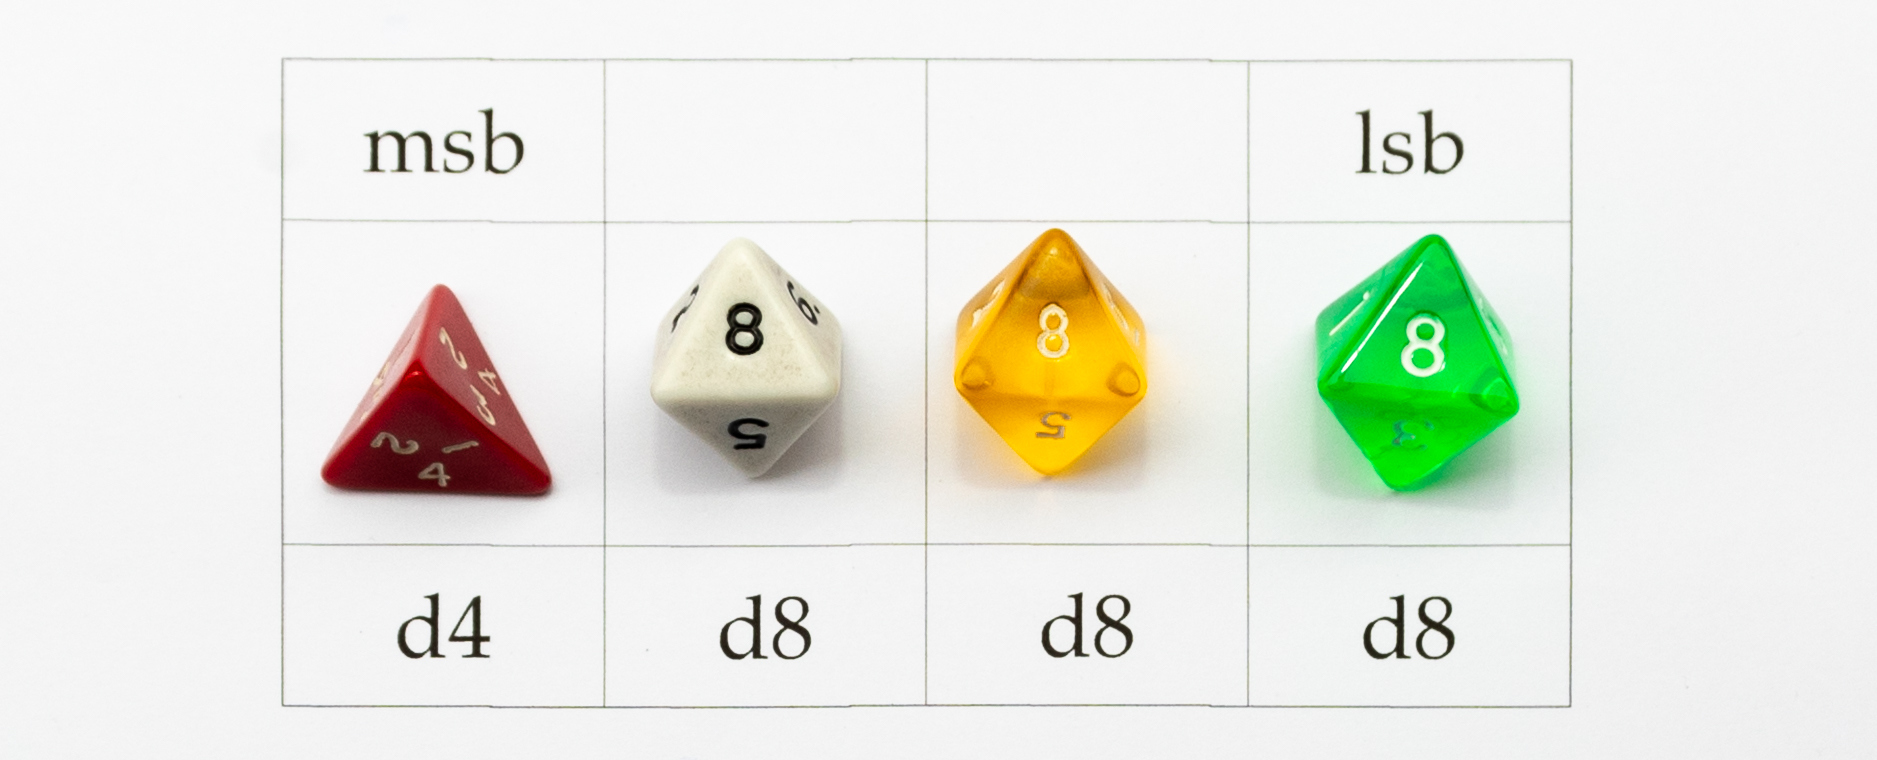
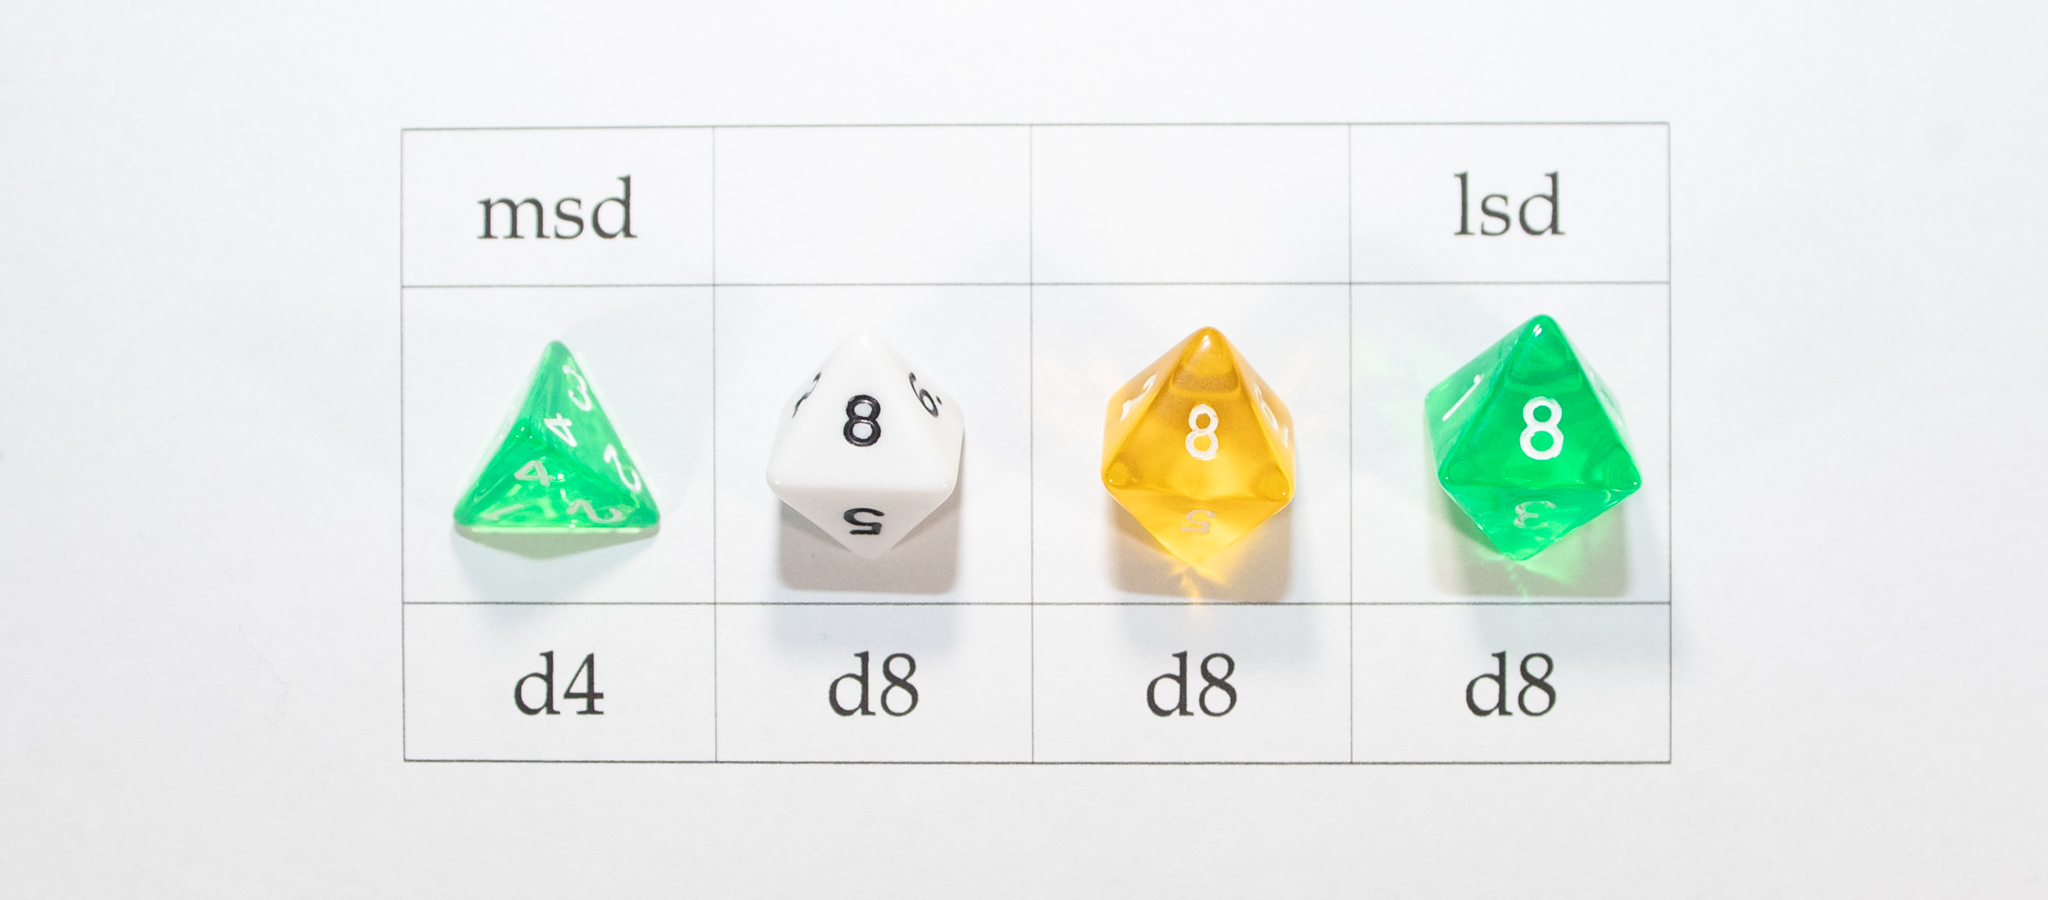
d4d8 update

diff --git a/d4d8_SeedPhrase.md b/d4d8_SeedPhrase.md
@@ -10,17 +10,28 @@ Prima di procedere, dovete procurarvi un d4 e tre d8.<br> Vi consiglio di recupe
 Per questa guida utilizziamo di d4 ed i d8 che sono dadi derivanti da Solidi Geometrici. Vi consiglio di effettuare i test di bilanciamento spiegati in [:link: questo documento](test_bilanciamento.md).<br>
 Se riuscirete a procurarvi questi 4 dadi, vi basterà effettuare un lancio di questo set per ogni parola.<br>
 Oltre ai dadi vi servirà un taccuino in cui appuntarvi i risultati e poi un computer per calcolare il checksum.
+### Lettura del d4
+![444](assets/444.jpg)
+Questi tre dadi, indicano il valore 4, ma, come potete vedere, il dado giallo (poco leggibile in foto) ed il dado rosso hanno il quattro nella base, mentre quello verde ha il 4 nel vertice.<br>
+Che io sappia, esistono solo queste due tipologie di d4, ma non escludo che possiate trovarne di differenti.
 
-**Perché 3 dadi di colore differente?**<br>
+### Perché 3 dadi di colore differente?
+
+**piccola premessa**<br>
+in una stringa binaria, il numero più a sinistra viene chiamato **msb** (most significative bit o bit più significativo) e quello più a destra **lsb** (less significative bit o bit meno significativo). In questo caso, però non stiamo parlando di bit ma di caratteri (digit) così definiremo **msd** e **lsd** le nostre cifre agli  estremi.
+
 Con i nostri lanci dovremo generare un numero ottale che andrà da 0000 fino a 3777 (equivalente ottale di 2047).<br>
-Prendiamo per esempio un lancio **2546**.<br>
-Questo numero è composto da 4 caratteri: abbiamo il 2 che è il **msb** (most significative byte o byte più significativo), poi il 5, il 4 e finiamo con il 6 che è l'**lsb** (less significative byte o byte meno significativo).<br>
+Prendiamo per esempio un lancio **4335**.
+
+![4335_2](assets/4335.jpg)
+
+Questo numero è composto da 4 caratteri: abbiamo il 4 che è il **msd**, poi il 3, ancora il 3 e finiamo con il 5 che è l'**lsd**.<br>
 
 ![488](assets/4888.jpg)
 
-Il primo carattere verrà generato con il dado da 4, mentre gli altri tre, con i dadi da 8. Per massimizzare l'entropia è molto utile definire a priori quale dado da 8 fornirà il valore lsb e quali dadi gli altri due valori.<br>
+Il primo carattere verrà generato con il dado da 4, mentre gli altri tre, con i dadi da 8. Per massimizzare l'entropia è molto utile definire a priori quale dado da 8 fornirà il valore lsd e quali dadi gli altri due valori.<br>
 I colori differenti servono a identificare univocamente i 3 dadi da 8 e posizionare i valori ottenuti nella apposita posizione della stringa che fornirà il valore.<br>
-Nel mio caso, il dado verde sarà l'**lsb**, poi metterò alla sua sinistra il dado giallo e per finire il dado bianco.<br>
+Nel mio caso, il dado verde sarà l'**lsd**, poi metterò alla sua sinistra il dado giallo e per finire il dado bianco.<br>
 Rispettando questo codice colore, evitiamo che una decisione umana possa ridurre l'entropia.
 
 ## Esecuzione dei lanci aumentando l'entropia
@@ -39,11 +50,17 @@ Decidete come effettuare i lanci ed eseguite l'operazione fino ad avere:
 * 23 lanci validi[^1] per creare una SeedPhrase da 24 parole
 E' però necessario eseguire una semplicissima operazione matematica annotandosi i risultati.
 Potete decidere se farlo subito, oppure se farlo dopo per tutti i risultati.<br>
-In pratica, bisogna sottrarre uno ad ogni faccia pertanto se un lancio fosse com questo:
+In pratica, bisogna sottrarre uno ad ogni faccia pertanto, tornando all'esempio di prima:
 
-![4335_2](assets/4335_2.jpg)
+![4335_2](assets/4335.jpg)
 
-Il valore 4335 dovrà diventare 3224.
+Il valore 4335 dovrà esse trascritto in bella come 3224.<bs>
+Segue un esempio di come potrebbe essere fatta la tabella di lanci.
+Per la 12a o la 24a parola, attendere il capitolo successivo.
+
+| Esempio Lanci 12 parole | Esempio Lanci 24 parole |
+|---------------------------|---------------------------|
+|![12_word](assets/Lanci_12_word.jpg)|![12_word](assets/Lanci_24_word.jpg)|
 
 ## L'ultima parola
 Siamo ora arrivati a dover individuare la parola del checksum.
@@ -56,23 +73,24 @@ Arrivati a questo punto con 11 o 23 parole, possiamo utilizzare vari tools per g
 potete verificare tutto questo con uno dei numerosi tools presenti online, tra cui [questo](https://sutterseba.de/bip39-checksum-calculator/).
 Mi raccomando, **non provate questi tools con le parole appena generate con i dadi**.
 
-Per generare l'ultima utilizzando la medesima entropia utilizzata fino ad ora, possiamo fare queste ulteriori operazioni. Le operazioni sono differenti perchè, avendo 11 parole, dobbiamo generare 7 degli 11 bit per identificare una sola tra quelle 128 parole, mentre partendo da 23 parole, dobbiamo generare solo 3 degli 11 bit per identificare quella singola parola tra 8.
+Per generare l'ultima utilizzando la medesima entropia utilizzata fino ad ora, possiamo fare queste ulteriori operazioni. Le operazioni sono differenti perché, avendo 11 parole, dobbiamo generare 7 degli 11 bit per identificare una sola tra quelle 128 parole, mentre partendo da 23 parole, dobbiamo generare solo 3 degli 11 bit per identificare quella singola parola tra 8.
 
 ### Generazione di 7 bit (SeedPhrase 12 parole)
 Usando sempre i dadi usati in precedenza, dobbiamo generare un numero che vada da 111 a 288 che una volta trascritto sarà un valore compreso tra 000 e 177.<br>
 Non abbiamo un dado a due facce. Potremmo utilizzare una moneta, ma, volendo continuare con i dadi, dobbiamo decidere come gestire il dado da 4 facce.
-* possiamo decidere di assegnare 1 ai numeri pari
-* possiamo decidere di assegnare 1 al risultato di 1 e 2
-* possiamo decider un qualsiasi metodo, a patto che venga deciso a priori e non variato
+* possiamo decidere di assegnare 1 ai numeri pari;
+* possiamo decidere di assegnare 1 al risultato di 1 e 2;
+* possiamo decider un qualsiasi metodo, a patto che venga deciso a priori e non variato.
 
 Una volta deciso questo metodo, lanciamo 1 d4 e 2 d8.<br>
-Lanciando solo due d8, dobbiamo decidere quale dei due sarà l'**lsb** per non dover aggiungere una decisione umana che potrebbe diminuire l'entropia.<br>
-Ricordiamoci che, anche in questo caso, dovremo trascrivere il valore finale sottraendo 1 ad ogni numero ottenuto.
+Lanciando solo due d8, dobbiamo decidere quale dei due sarà l'**lsd** per non dover aggiungere una decisione umana che potrebbe diminuire l'entropia.<br>
+Ricordiamoci che, anche in questo caso, dovremo trascrivere il valore finale sottraendo 1 ad ogni numero ottenuto.<br>
+Nell'esempio di sopra, io avevo ottenuto un 4 che con il metodo da me scelto ho convertito in 2. Quando ho trascritto il numero ottale è diventato, quindi, un 1.
 
 ### Generazione di 3 bit (SeedPhrase 24 parole)
 Per generare i 3 bit necessario ad una SeedPhrase da 24 parole, ci basta lanciare un unico d8.<br>
-Anche in questo caso, andremo poi a sottrarre 1 quando trascriveremo il "bella" i risultati.
-
+Anche in questo caso, andremo poi a sottrarre 1 quando trascriveremo il "bella" i risultati.<br>
+Nel mio esempio di sopra, ho tirato il dado bianco ed è uscito un 7 che ho convertito in un 6 una volta trascritto.
 
 
 
